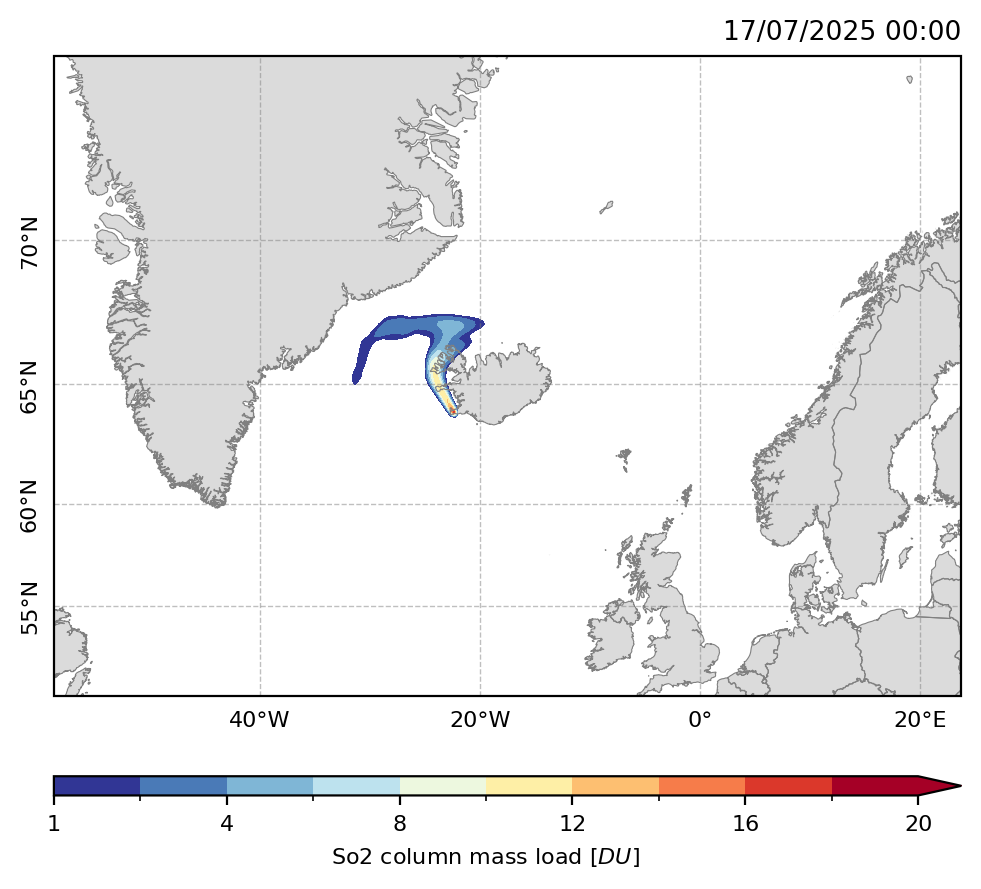
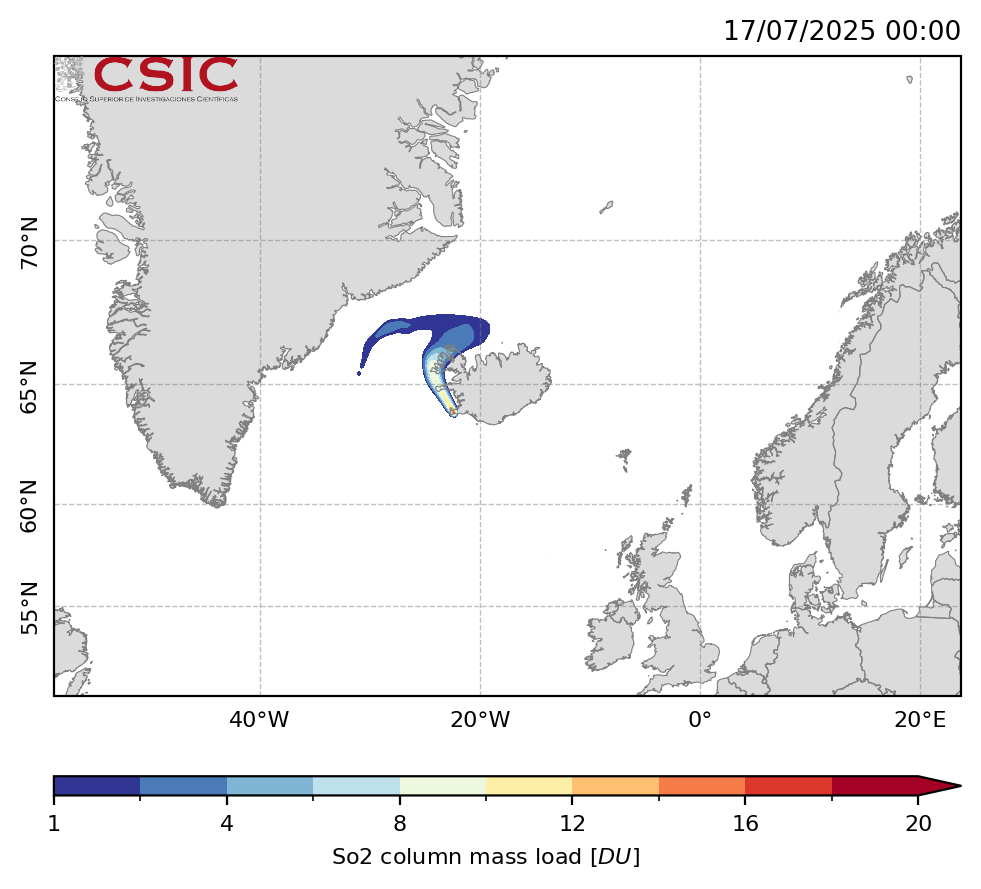
48-h forecast until 18jul

Changed region(s): [[0.0612, 0.0607, 0.2446, 0.1215], [0.367, 0.3341, 0.5199, 0.4556], [0.3364, 0.3948, 0.367, 0.4252]]

diff --git a/index.html b/index.html
@@ -245,7 +245,7 @@
         <h1>Model configuration</h1>
 
         <ul>
-          <li>The FALL3D model was drive using 24-h forecasts from GFS</li>
+          <li>The FALL3D model was drive using 48-h forecasts from GFS</li>
           <li>The model is initialized every day at 00:00 UTC using restart</li>
           <li>Initial condition is taken from the 24-h forecast from the previous day</li>
           <li>SO2 emission flux was assumed to be 100 kg/s with a Suzuki vertical distribution up to 1500m</li>
@@ -260,7 +260,7 @@ lon_vent: -22.350001
 elevation_vent: 79.0
 date: '20250720'
 start_time: 0
-end_time: 24
+end_time: 48
 
 #Model configuration
 meteo_database: 'GFS'
@@ -283,7 +283,7 @@ step: 1
 
     <script>
         let currentSlide = 0;
-        let totalHours = 24;
+        let totalHours = 48;
         let currentFolder = '';
         let currentFormat = 'png';
 
